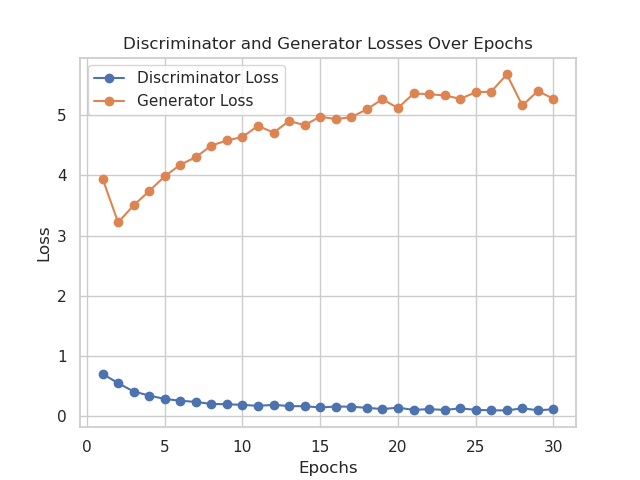
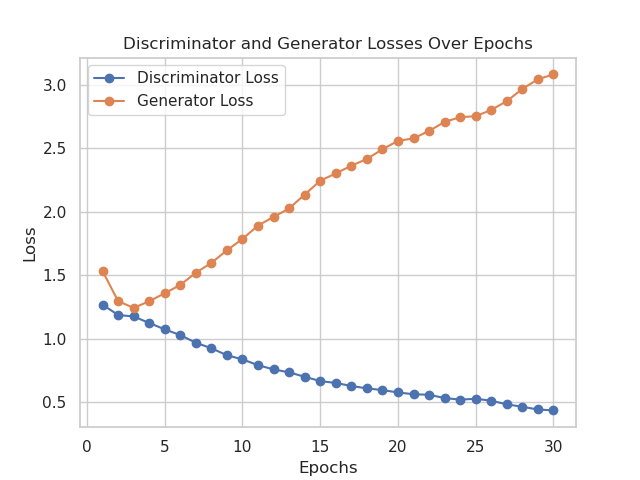
Add spectral_dcgan_v2

diff --git a/models.py b/models.py
@@ -92,6 +92,22 @@ class Generator(BaseNetwork):
         )
 
 
+class Generatorv2(Generator):
+    def _block(self, in_channels, out_channels, kernel_size, stride, padding):
+        return nn.Sequential(
+            nn.ConvTranspose2d(
+                in_channels,
+                out_channels,
+                kernel_size,
+                stride,
+                padding,
+                bias=False,
+            ),
+            nn.BatchNorm2d(out_channels),
+            nn.GELU(),
+        )
+
+
 class SpectralDiscriminator(BaseNetwork):
     def _block(self, in_channels, out_channels, kernel_size, stride, padding):
         return nn.Sequential(
@@ -118,6 +134,27 @@ class SpectralDiscriminator(BaseNetwork):
             self._block(self.f_size, self.f_size * 2, 4, 2, 1),
             self._block(self.f_size * 2, self.f_size * 4, 4, 2, 1),
             self._block(self.f_size * 4, self.f_size * 8, 4, 2, 1),
+            spectral_norm(
+                nn.Conv2d(self.f_size * 8, 1, kernel_size=4, stride=2, padding=0)
+            ),
+            nn.Sigmoid(),
+        )
+
+
+class SpectralDiscriminatorv2(SpectralDiscriminator):
+    def _build_network(self):
+        return nn.Sequential(
+            spectral_norm(
+                nn.Conv2d(self.in_size, self.f_size, kernel_size=4, stride=2, padding=1)
+            ),
+            nn.LeakyReLU(0.2, inplace=True),
+            nn.Dropout(0.3),
+            self._block(self.f_size, self.f_size * 2, 4, 2, 1),
+            nn.Dropout(0.3),
+            self._block(self.f_size * 2, self.f_size * 4, 4, 2, 1),
+            nn.Dropout(0.3),
+            self._block(self.f_size * 4, self.f_size * 8, 4, 2, 1),
+            nn.Dropout(0.3),
             spectral_norm(
                 nn.Conv2d(self.f_size * 8, 1, kernel_size=4, stride=2, padding=0)
             ),
@@ -189,10 +226,14 @@ class SaDiscriminator(SpectralDiscriminator):
                 nn.Conv2d(self.in_size, self.f_size, kernel_size=4, stride=2, padding=1)
             ),
             nn.LeakyReLU(0.2, inplace=True),
+            nn.Dropout(0.3),
             self._block(self.f_size, self.f_size * 2, 4, 2, 1),
             SelfAttention(self.f_size * 2),
+            nn.Dropout(0.3),
             self._block(self.f_size * 2, self.f_size * 4, 4, 2, 1),
+            nn.Dropout(0.3),
             self._block(self.f_size * 4, self.f_size * 8, 4, 2, 1),
+            nn.Dropout(0.3),
             spectral_norm(
                 nn.Conv2d(self.f_size * 8, 1, kernel_size=4, stride=2, padding=0)
             ),
@@ -200,7 +241,23 @@ class SaDiscriminator(SpectralDiscriminator):
         )
 
 
-class SaGenerator(SpectralGenerator):
+class SaGenerator(Generator):
+    def _block(self, in_channels, out_channels, kernel_size, stride, padding):
+        return nn.Sequential(
+            spectral_norm(
+                nn.ConvTranspose2d(
+                    in_channels,
+                    out_channels,
+                    kernel_size,
+                    stride,
+                    padding,
+                    bias=False,
+                )
+            ),
+            nn.BatchNorm2d(out_channels),
+            nn.GELU(),
+        )
+
     def _build_network(self):
         return nn.Sequential(
             self._block(self.n_size, self.f_size * 8, 4, 1, 0),

diff --git a/utils.py b/utils.py
@@ -4,9 +4,11 @@ from tqdm import tqdm
 from models import (
     Discriminator,
     Generator,
+    Generatorv2,
     SaDiscriminator,
     SaGenerator,
     SpectralDiscriminator,
+    SpectralDiscriminatorv2,
 )
 
 REAL_LABEL = 1
@@ -63,6 +65,9 @@ def get_network(net, nc, nf, nz, device):
         case "spectral_dcgan":
             net_d = SpectralDiscriminator(nc, nf)
             net_g = Generator(nz, nc, nf)
+        case "spectral_dcgan_v2":
+            net_d = SpectralDiscriminatorv2(nc, nf)
+            net_g = Generatorv2(nz, nc, nf)
         case "sagan":
             net_d = SaDiscriminator(nc, nf)
             net_g = SaGenerator(nz, nc, nf)

diff --git a/main.py b/main.py
@@ -1,4 +1,5 @@
 import argparse
+import random
 import time
 from pathlib import Path
 
@@ -18,6 +19,9 @@ PATHS = {}
 
 
 def main():
+    torch.manual_seed(0)
+    random.seed(0)
+
     parser = argparse.ArgumentParser()
     parser.add_argument("-net", type=str, default="dcgan", required=False)
     parser.add_argument("-lr", type=float, default=2e-4, required=False)
@@ -51,7 +55,6 @@ def main():
     train_details_path.mkdir(parents=True, exist_ok=True)
 
     device = torch.device("cuda:0" if torch.cuda.is_available() else "cpu")
-    print(device)
 
     transform = transforms.Compose(
         [

diff --git a/README.md b/README.md
@@ -1,7 +1,7 @@
 # Setup
 
 This repository contains a script for training Generative Adversarial Networks (GANs) on the CelebA dataset using PyTorch. The script allows flexibility in choosing different network architectures, configuring hyperparameters, and saving training progress. Currently, is is possible
-of training three GANs models: DCGAN, DCGAN with spectral normalization, and DCGAN with self-attention. Those models are inspired on the following paper [paper 1](https://arxiv.org/abs/1511.06434), [paper 2](https://arxiv.org/abs/1802.05957), [paper 3](https://arxiv.org/abs/1805.08318).
+of training three GANs models: DCGAN, DCGAN with spectral normalization, DCGAN with spectral normalization and dropout on discriminator and GELU activation functions in Generator, and DCGAN with self-attention. Those models are inspired on the following papers [paper 1](https://arxiv.org/abs/1511.06434), [paper 2](https://arxiv.org/abs/1802.05957), [paper 3](https://arxiv.org/abs/1805.08318).
 
 ## Prerequisites
 
@@ -40,7 +40,7 @@ The training script is `main.py`. The script accepts several command-line argume
 python main.py [-net NET] [-lr LR] [-epochs EPOCHS] [-bs BS] [-b_1 B_1] [-b_2 B_2] [-nc NC] [-nf NF] [-nz NZ] [-workers WORKERS]
 ```
 #### Arguments:
-- `-net`: The name of the GAN network architecture to use. Available options: `dcgan`, `spectral_dcgan`, `sagan`. (default: `dcgan`).
+- `-net`: The name of the GAN network architecture to use. Available options: `dcgan`, `spectral_dcgan`, `spectral_dcgan_v2`, `sagan`. (default: `dcgan`).
 - `-lr`: Learning rate for the optimizers (default: `2e-4`).
 - `-epochs`: Number of training epochs (default: `30`).
 - `-bs`: Batch size for the DataLoader (default: `64`).
@@ -51,7 +51,7 @@ python main.py [-net NET] [-lr LR] [-epochs EPOCHS] [-bs BS] [-b_1 B_1] [-b_2 B_
 - `-nz`: Size of the latent vector (default: `100`).
 - `-workers`: Number of worker threads for loading data (default: `4`).
 
-All models were trained with default parameters. To train standard DCGAN use the following command:
+All models were trained according to the following commands. To train standard DCGAN use the following command:
 ```
 python train_gan.py -net dcgan
 ```
@@ -61,9 +61,14 @@ To train DCGAN with spectral normalization on discriminator use the following co
 python train_gan.py -net spectral_dcgan
 ```
 
+To train DCGAN with spectral normalization on discriminator and additional tricks use the following command:
+```
+python train_gan.py -net spectral_dcgan_v2 -b_1 0.0
+```
+
 To train DCGAN with self-attention use the following command:
 ```
-python train_gan.py -net sagan
+python train_gan.py -net sagan -b_1 0.0
 ```
 
 The script will create the following directories:
@@ -157,5 +162,17 @@ python create_plots.py -path train_details/sagan.pth
 
 #### Discriminator outputs
 ![Discriminator outputs](plots/disc_outputs_sagan.png)
+
+
+### 9. Results for DCGAN with spectral normalization and extra tricks
+#### Generated images
+![Generated images](gifs/spectral_dcgan_v2.gif)
+
+#### Discriminator and generator losses
+![Losses](plots/losses_spectral_dcgan_v2.png)
+
+#### Discriminator outputs
+![Discriminator outputs](plots/disc_outputs_spectral_dcgan_v2.png)
+
 
 
